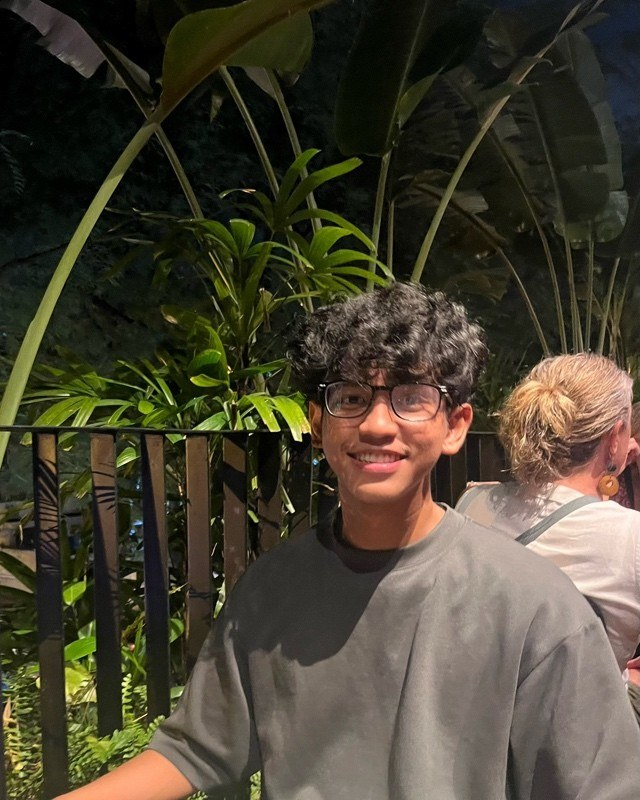
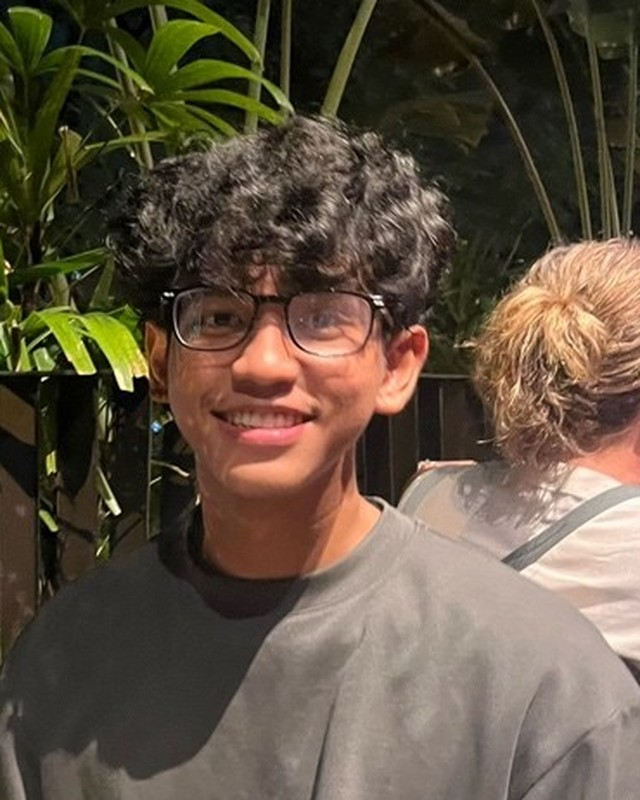
Team: centre video like About; tighter Linn Nyo crop; square team photos
Claude-Session: https://claude.ai/code/session_017Kq7mCtbU2fqeNHb2mK3TT

diff --git a/index.html b/index.html
@@ -942,6 +942,11 @@
   @media (max-width:560px){ .team-layout .team-grid{ grid-template-columns:1fr; } }
   .team-vid{ position:sticky; top:110px; }
   @media (max-width:1000px){ .team-vid{ position:relative; top:auto; } }
+
+  /* team layout: match About (video left, vertically centred, same width) */
+  .team-layout{ align-items:center; }
+  .team-vid{ position:relative; top:auto; }
+  .team-layout .team-photo{ aspect-ratio:1/1; }
 </style>
 </head>
 <body style="background:#000;color:#fff">
